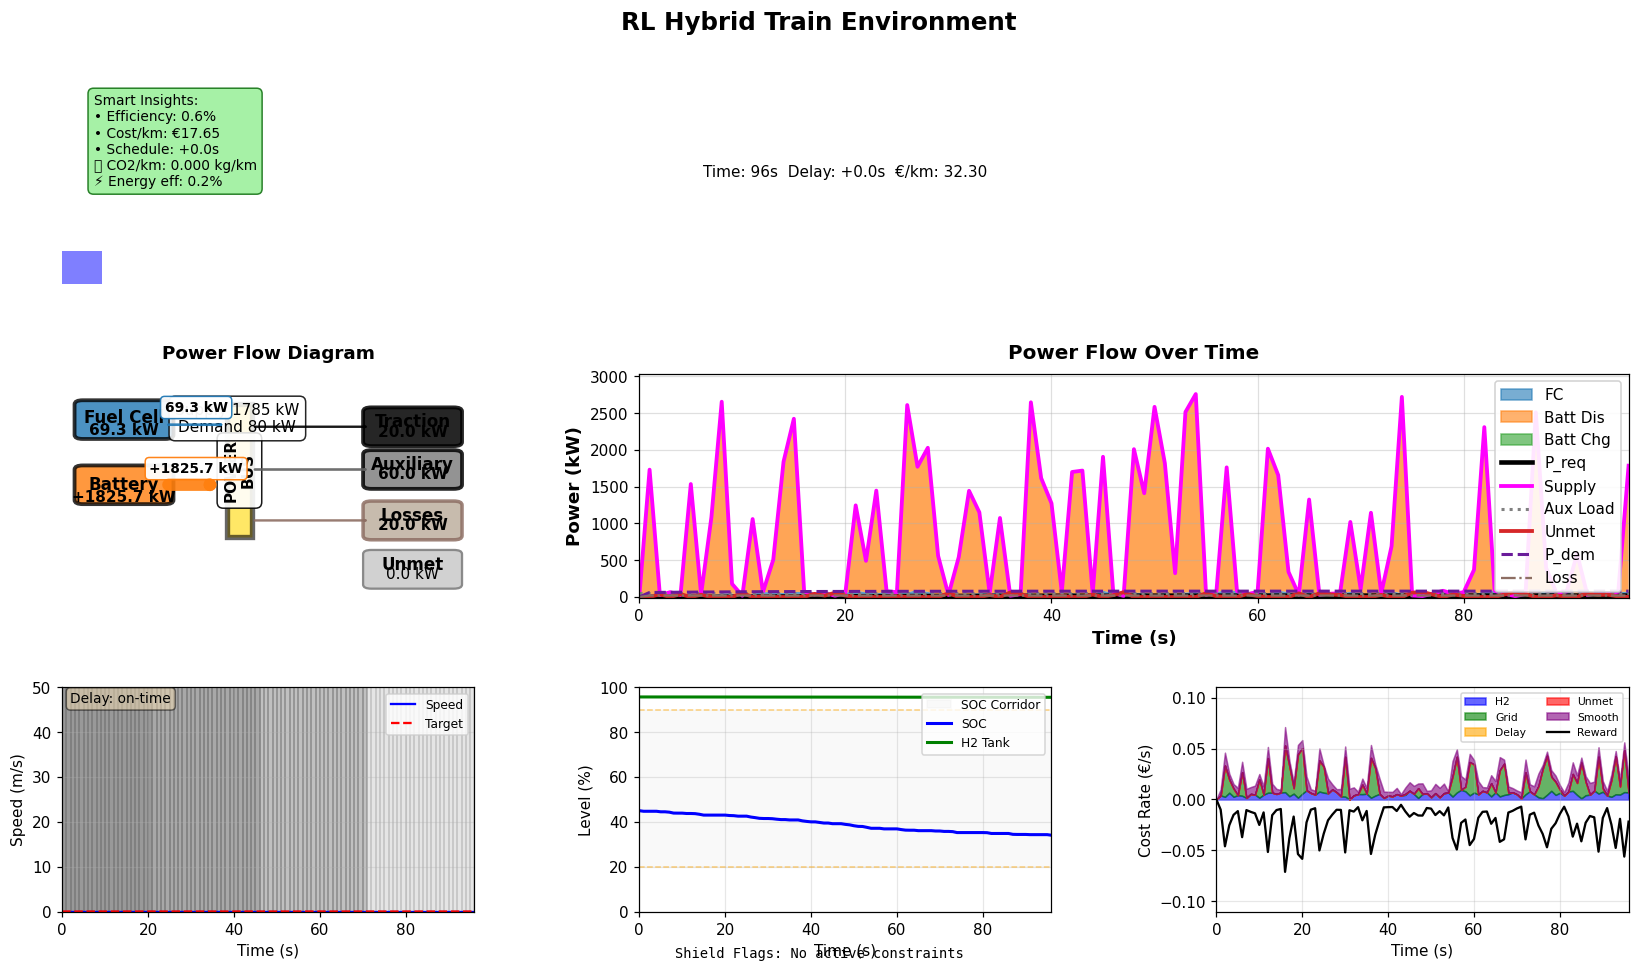
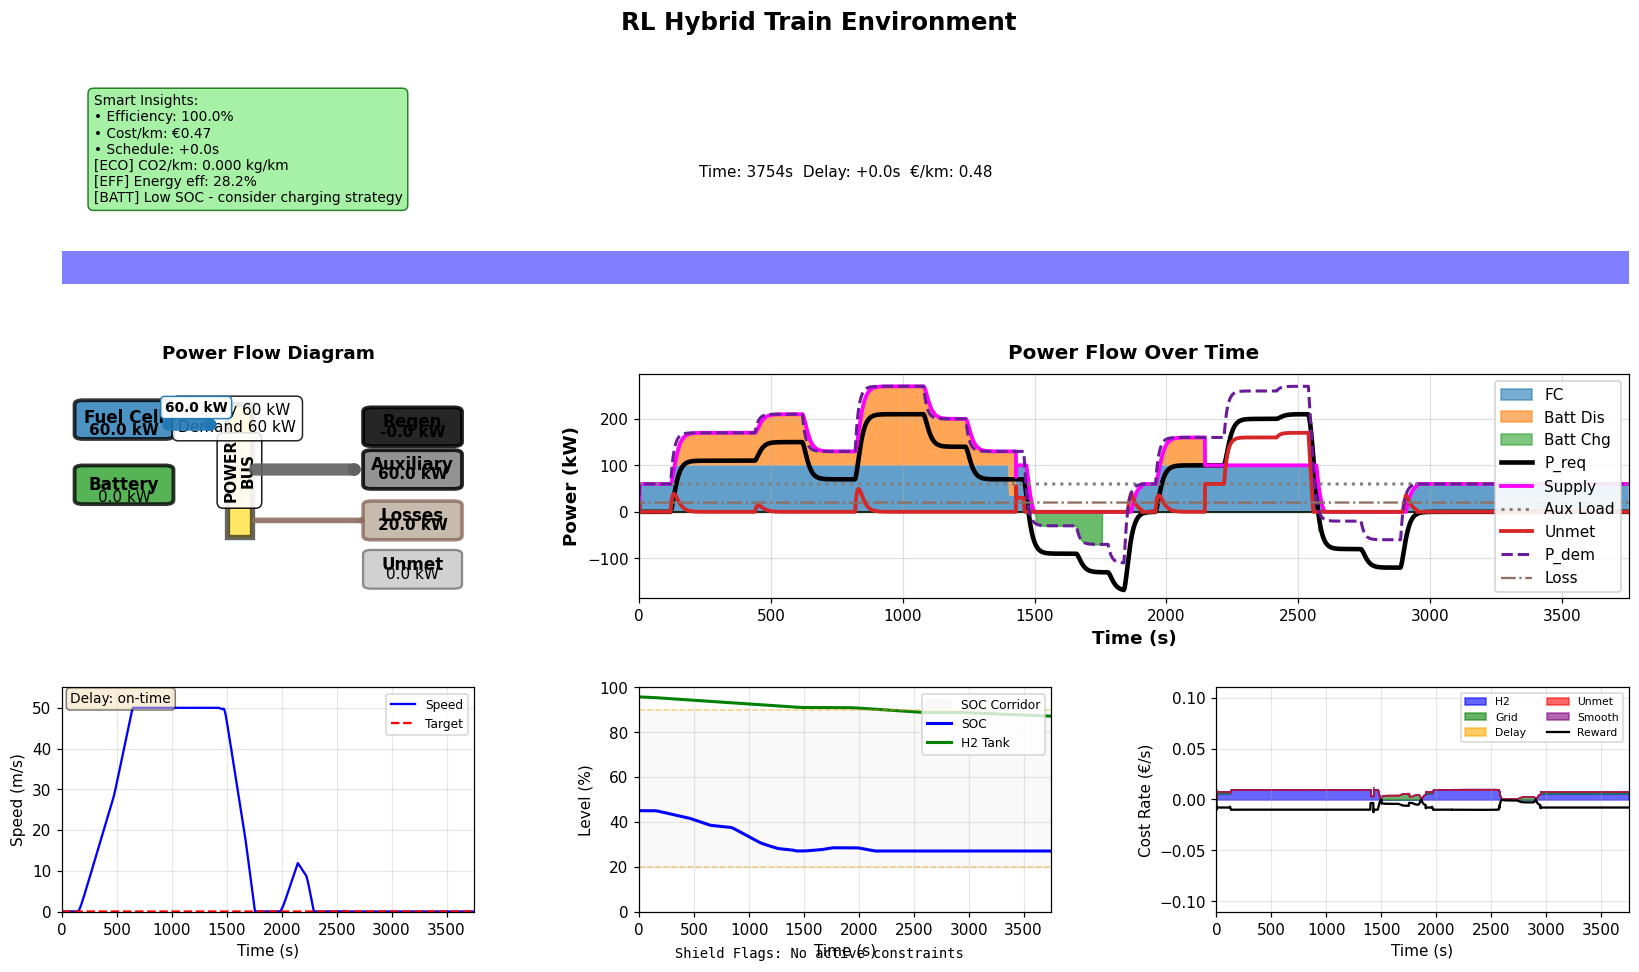
Phase 1: Expand observation space from 10 to 12 dimensions
- Added time/distance to next stop calculation
- Added grade preview/segment indicator from driver speed segments
- Added P_req trend calculation (derivative)
- Updated configuration structure with RouteConfig, StopsConfig, DrivelineConfig, TrainConfig
- Added proper train physics parameters (Davis coefficients)
- Maintained backward compatibility
- All tests pass with new observation space

diff --git a/rl_hyb_train/env0_env.py b/rl_hyb_train/env0_env.py
@@ -31,7 +31,7 @@ class Env0(gym.Env):
     """
     Env0: Supervisory EMS (POMDP) environment for hybrid FC–Battery train.
     
-    Observation: Box(low=-1, high=1, shape=(10,), dtype=float32)
+    Observation: Box(low=-1, high=1, shape=(12,), dtype=float32)
     Action: Box(low=[0,-1], high=[1,1], dtype=float32) → [fc_frac, batt_cmd]
     """
     
@@ -68,11 +68,11 @@ class Env0(gym.Env):
             config.fuel_cell
         )
         
-        # Observation space: Box(low=-1, high=1, shape=(10,), dtype=float32)
+        # Observation space: Box(low=-1, high=1, shape=(12,), dtype=float32)
         self.observation_space = spaces.Box(
             low=-1.0,
             high=1.0,
-            shape=(10,),
+            shape=(12,),
             dtype=np.float32
         )
         
@@ -89,6 +89,7 @@ class Env0(gym.Env):
         self.last_action = np.array([0.5, 0.0], dtype=np.float32)
         self.p_req_filtered = 0.0  # Low-pass filtered P_req for observation
         self.p_req_next_kw = 0.0  # Pre-computed P_req for next step (fixes timing lag)
+        self.p_req_prev_filtered = 0.0  # Previous filtered P_req for trend calculation
         self.episode_info = EpisodeInfo()
         
         # Normalization ranges (for observation)
@@ -182,6 +183,7 @@ class Env0(gym.Env):
         )
         self.last_action = np.array([0.5, 0.0], dtype=np.float32)
         self.p_req_filtered = 0.0
+        self.p_req_prev_filtered = 0.0
         self.episode_info = EpisodeInfo()
         
         # Reset delay tracking
@@ -193,7 +195,8 @@ class Env0(gym.Env):
         
         # Pre-compute P_req for first step (fixes timing lag)
         self.p_req_next_kw = self.driver.step(self.config.sim.dt_seconds, current_speed_mps=self.plant.state.speed_mps)
-        # Update filtered P_req
+        # Update filtered P_req (save previous for trend calculation)
+        self.p_req_prev_filtered = self.p_req_filtered
         alpha = self.config.sim.dt_seconds / (
             self.config.driver.p_req_smoothing_tau_s + self.config.sim.dt_seconds
         )
@@ -290,7 +293,8 @@ class Env0(gym.Env):
 
         # Pre-compute P_req for NEXT step (fixes timing lag - EMS will see this P_req when deciding next action)
         self.p_req_next_kw = self.driver.step(self.config.sim.dt_seconds, current_speed_mps=self.plant.state.speed_mps)
-        # Update filtered P_req for observation
+        # Update filtered P_req for observation (save previous for trend calculation)
+        self.p_req_prev_filtered = self.p_req_filtered
         alpha = self.config.sim.dt_seconds / (
             self.config.driver.p_req_smoothing_tau_s + self.config.sim.dt_seconds
         )
@@ -308,7 +312,7 @@ class Env0(gym.Env):
     
     def _get_observation(self) -> np.ndarray:
         """Build observation vector (normalized to [-1, 1])."""
-        obs = np.zeros(10, dtype=np.float32)
+        obs = np.zeros(12, dtype=np.float32)
         
         # 1. Speed (normalized)
         obs[0] = np.clip(
@@ -326,26 +330,47 @@ class Env0(gym.Env):
         tank_obs = np.clip(self.plant.state.tank_level + tank_noise, 0.0, 1.0)
         obs[2] = tank_obs * 2.0 - 1.0
         
-        # 4. Timetable phase or distance-to-next-stop proxy
-        # Simple: fraction of episode elapsed
-        phase = self.episode_step / max(1, self.episode_length)
-        obs[3] = phase * 2.0 - 1.0
+        # 4. Time/Distance to next stop (normalized)
+        # Use time to next stop if available, otherwise episode phase
+        if hasattr(self.driver.state, 'next_stop_time') and self.driver.state.next_stop_time > self.driver.state.current_time:
+            time_to_stop = self.driver.state.next_stop_time - self.driver.state.current_time
+            # Normalize assuming max 10 minutes to next stop
+            obs[3] = np.clip((time_to_stop / 600.0) * 2.0 - 1.0, -1.0, 1.0)
+        else:
+            # Fallback to episode phase
+            phase = self.episode_step / max(1, self.episode_length)
+            obs[3] = phase * 2.0 - 1.0
         
-        # 5. Requested traction power P_req (filtered, normalized)
-        obs[4] = np.clip(
+        # 5. Grade preview/segment indicator (normalized)
+        # Get current segment grade if available
+        current_grade = 0.0
+        if hasattr(self.driver, 'speed_segments') and self.driver.speed_segments:
+            if self.driver.speed_idx < len(self.driver.speed_segments):
+                segment_meta = self.driver.speed_segments[self.driver.speed_idx].get('meta', {})
+                current_grade = segment_meta.get('grade_percent', 0.0)
+        # Normalize assuming grades in range [-5%, +5%]
+        obs[4] = np.clip((current_grade / 5.0) * 2.0 - 1.0, -1.0, 1.0)
+        
+        # 6. Requested traction power P_req (filtered, normalized)
+        obs[5] = np.clip(
             (self.p_req_filtered / self.p_req_max) * 2.0 - 1.0,
             -1.0, 1.0
         )
         
-        # 6-7. Last action
-        obs[5] = self.last_action[0] * 2.0 - 1.0  # fc_frac [0,1] -> [-1,1]
-        obs[6] = self.last_action[1]  # batt_cmd already [-1,1]
+        # 7. P_req trend (derivative, normalized)
+        p_req_trend = (self.p_req_filtered - self.p_req_prev_filtered) / self.config.sim.dt_seconds
+        # Normalize assuming max change of 1000 kW/s
+        obs[6] = np.clip((p_req_trend / 1000.0) * 2.0 - 1.0, -1.0, 1.0)
         
-        # 8-10. Nuisance noise channels
+        # 8-9. Last action
+        obs[7] = self.last_action[0] * 2.0 - 1.0  # fc_frac [0,1] -> [-1,1]
+        obs[8] = self.last_action[1]  # batt_cmd already [-1,1]
+        
+        # 10-12. Nuisance noise channels
         noise_std = self.config.observations.nuisance_noise_std
-        obs[7] = self.rng.normal(0.0, noise_std)
-        obs[8] = self.rng.normal(0.0, noise_std)
         obs[9] = self.rng.normal(0.0, noise_std)
+        obs[10] = self.rng.normal(0.0, noise_std)
+        obs[11] = self.rng.normal(0.0, noise_std)
         
         # Clip to [-1, 1]
         obs = np.clip(obs, -1.0, 1.0)

diff --git a/rl_hyb_train/config.py b/rl_hyb_train/config.py
@@ -22,6 +22,29 @@ class SimConfig:
 
 
 @dataclass
+class RouteConfig:
+    profiles: List[str] = field(default_factory=lambda: ["flat", "rolling", "mild_mountain"])
+    grade_segments_percent: List[float] = field(default_factory=lambda: [0.02, 0.00, -0.01])
+    segment_duration_s: float = 600.0
+    speed_limits_mps: List[float] = field(default_factory=lambda: [40.0, 35.0, 30.0])
+
+
+@dataclass
+class StopsConfig:
+    count: int = 3
+    dwell_mean_s: float = 60.0
+    dwell_jitter_frac: float = 0.2
+
+
+@dataclass
+class DrivelineConfig:
+    eta_traction: float = 0.85
+    eta_regen: float = 0.75
+    aux_base_kw: float = 200.0
+    aux_bias_rw_sigma_kw: float = 0.1
+
+
+@dataclass
 class DriverConfig:
     p_req_smoothing_tau_s: float = 2.0
     p_req_rate_limit_kw_per_s: float = 400.0
@@ -29,6 +52,16 @@ class DriverConfig:
     manual_loop: bool = False
     manual_p_req_profile: List[Dict[str, float]] = field(default_factory=list)
     manual_speed_profile: List[Dict[str, float]] = field(default_factory=list)
+    # New spec-compliant driver parameters
+    pid_kp: float = 5.0
+    pid_ki: float = 0.0
+    pid_kd: float = 1.5
+    adhesion_mu_min: float = 0.2
+    adhesion_mu_max: float = 0.35
+    traction_power_max_kw: float = 1000.0
+    regen_power_max_kw: float = 400.0
+    req_lpf_tau_s: float = 3.0
+    trend_window_s: float = 3.0
     speed_target_smoothing_tau_s: float = 8.0
     speed_tracking_tau_s: float = 12.0
     speed_tracking_accel_limit_mps2: float = 0.5
@@ -58,6 +91,16 @@ class DriverConfig:
     speed_integral_separation_mps: float = 0.6
     speed_disable_integral_when_saturated: bool = True
     speed_measurement_filter_tau_s: float = 4.0
+
+
+@dataclass
+class TrainConfig:
+    """Train physics parameters for realistic dynamics."""
+    mass_tons_min: float = 180.0
+    mass_tons_max: float = 260.0
+    davis_A_N: float = 5000.0  # Rolling resistance constant
+    davis_B_N_per_mps: float = 100.0  # Rolling resistance linear term  
+    davis_C_N_per_mps2: float = 5.0  # Rolling resistance quadratic term
 
 
 @dataclass
@@ -179,6 +222,7 @@ class LoggingConfig:
 class TrainModelConfig:
     """Parameters that define the physical train model."""
 
+    train: TrainConfig = field(default_factory=TrainConfig)
     plant: PlantConfig = field(default_factory=PlantConfig)
     battery: BatteryConfig = field(default_factory=BatteryConfig)
     fuel_cell: FuelCellConfig = field(default_factory=FuelCellConfig)
@@ -191,6 +235,9 @@ class ScenarioConfig:
     """Scenario definition: track, schedule, observation model."""
 
     sim: SimConfig = field(default_factory=SimConfig)
+    route: RouteConfig = field(default_factory=RouteConfig)
+    stops: StopsConfig = field(default_factory=StopsConfig)
+    driveline: DrivelineConfig = field(default_factory=DrivelineConfig)
     driver: DriverConfig = field(default_factory=DriverConfig)
     reward_weights: RewardWeightsConfig = field(default_factory=RewardWeightsConfig)
     randomization: RandomizationConfig = field(default_factory=RandomizationConfig)
@@ -230,6 +277,22 @@ class Config:
     @property
     def driver(self) -> DriverConfig:
         return self.scenario.driver
+
+    @property
+    def route(self) -> RouteConfig:
+        return self.scenario.route
+
+    @property
+    def stops(self) -> StopsConfig:
+        return self.scenario.stops
+
+    @property
+    def driveline(self) -> DrivelineConfig:
+        return self.scenario.driveline
+
+    @property
+    def train_physics(self) -> TrainConfig:
+        return self.train.train
 
     @property
     def plant(self) -> PlantConfig:
@@ -286,6 +349,7 @@ class Config:
         train_data = data.get("train")
         if train_data:
             return TrainModelConfig(
+                train=TrainConfig(**train_data.get("train", {})),
                 plant=PlantConfig(**train_data.get("plant", {})),
                 battery=BatteryConfig(**train_data.get("battery", {})),
                 fuel_cell=FuelCellConfig(**train_data.get("fuel_cell", {})),
@@ -294,6 +358,7 @@ class Config:
             )
         # Legacy top-level fields
         return TrainModelConfig(
+            train=TrainConfig(**data.get("train", {})),
             plant=PlantConfig(**data.get("plant", {})),
             battery=BatteryConfig(**data.get("battery", {})),
             fuel_cell=FuelCellConfig(**data.get("fuel_cell", {})),
@@ -307,6 +372,9 @@ class Config:
         if scenario_data:
             return ScenarioConfig(
                 sim=SimConfig(**scenario_data.get("sim", {})),
+                route=RouteConfig(**scenario_data.get("route", {})),
+                stops=StopsConfig(**scenario_data.get("stops", {})),
+                driveline=DrivelineConfig(**scenario_data.get("driveline", {})),
                 driver=DriverConfig(**scenario_data.get("driver", {})),
                 reward_weights=RewardWeightsConfig(**scenario_data.get("reward_weights", {})),
                 randomization=RandomizationConfig(**scenario_data.get("randomization", {})),
@@ -317,6 +385,9 @@ class Config:
         # Legacy top-level fields
         return ScenarioConfig(
             sim=SimConfig(**data.get("sim", {})),
+            route=RouteConfig(**data.get("route", {})),
+            stops=StopsConfig(**data.get("stops", {})),
+            driveline=DrivelineConfig(**data.get("driveline", {})),
             driver=DriverConfig(**data.get("driver", {})),
             reward_weights=RewardWeightsConfig(**data.get("reward_weights", {})),
             randomization=RandomizationConfig(**data.get("randomization", {})),

diff --git a/spec.md b/spec.md
@@ -51,6 +51,56 @@ This document lists **all systems and technical specs** needed to implement **En
 
 ## 3) Driver/ATO Specification
 
+**3) MPC Driver (most precise, still lightweight)**
+
+Receding-horizon speed planning using Model Predictive Control (MPC), which optimizes a short-horizon cost at each time step to generate smooth, energy-efficient, and punctual trajectories:
+
+At each step, MPC solves:
+
+\[
+\min_{a_{t:t+H-1}} \sum_{k=t}^{t+H-1}
+  \left[
+    \alpha_1 (v_k - v_k^\star)^2
+    + \alpha_2\,(\mathrm{power\_req}_k)^2
+    + \alpha_3\,(\mathrm{brake\_req}_k)^2
+  \right]
+\]
+
+**Subject to:**
+- **Dynamics:**
+  \[
+  m\,\dot{v} =
+      \frac{P_{\text{wheel}}}{\max(v,\,\varepsilon)}
+      - (A+Bv+C v^2)
+      - mg\sin\theta
+  \]
+  where \(m\) is vehicle mass, \(A,B,C\) are Davis params, \(\theta\) is grade, and \(\varepsilon\) avoids division by zero.
+
+- **Speed limits:** 
+  \[
+  v_k \le v_{\max}(s_k)
+  \]
+  Also subject to **stop constraints**, **comfort (jerk/acc limits)**, and possible **adhesion** constraints.
+
+- **Terminal constraint:**  
+  The final time in the planning horizon must align with the scheduled arrival time (or maintain non-negative slack).
+
+- **Input conversion:**  
+  The planned acceleration \(a_k\) (or jerk/velocity profile) is unrolled; for each step, \(P_{\text{req}}\) is derived as
+  \[
+  P_{\text{req},k} = (m a_k + A + B v_k + C v_k^2 + m g \sin\theta) \cdot v_k
+  \]
+
+The MPC procedure re-solves this optimization every control step (typically each second), delivering:
+- **Smooth and efficient speed trajectories**, favoring limited braking (high regen potential)
+- **On-time arrivals** (by terminal constraint)
+- **Tunable tradeoff** between timeliness, smoothness, and energy via \(\alpha_1, \alpha_2, \alpha_3\)
+
+MPC achieves "nicest" trajectories — i.e., maximally smooth (good for regenerative recovery) and can make explicit tradeoffs (e.g., penalize braking or deviation from target). Such a driver is especially useful as a strong baseline or for ablation.
+
+
+
+
 **Inputs:** Timetable, speed limits vs position, route grade profile, adhesion coefficient \(\mu\).
 
 **Procedure per step:**
